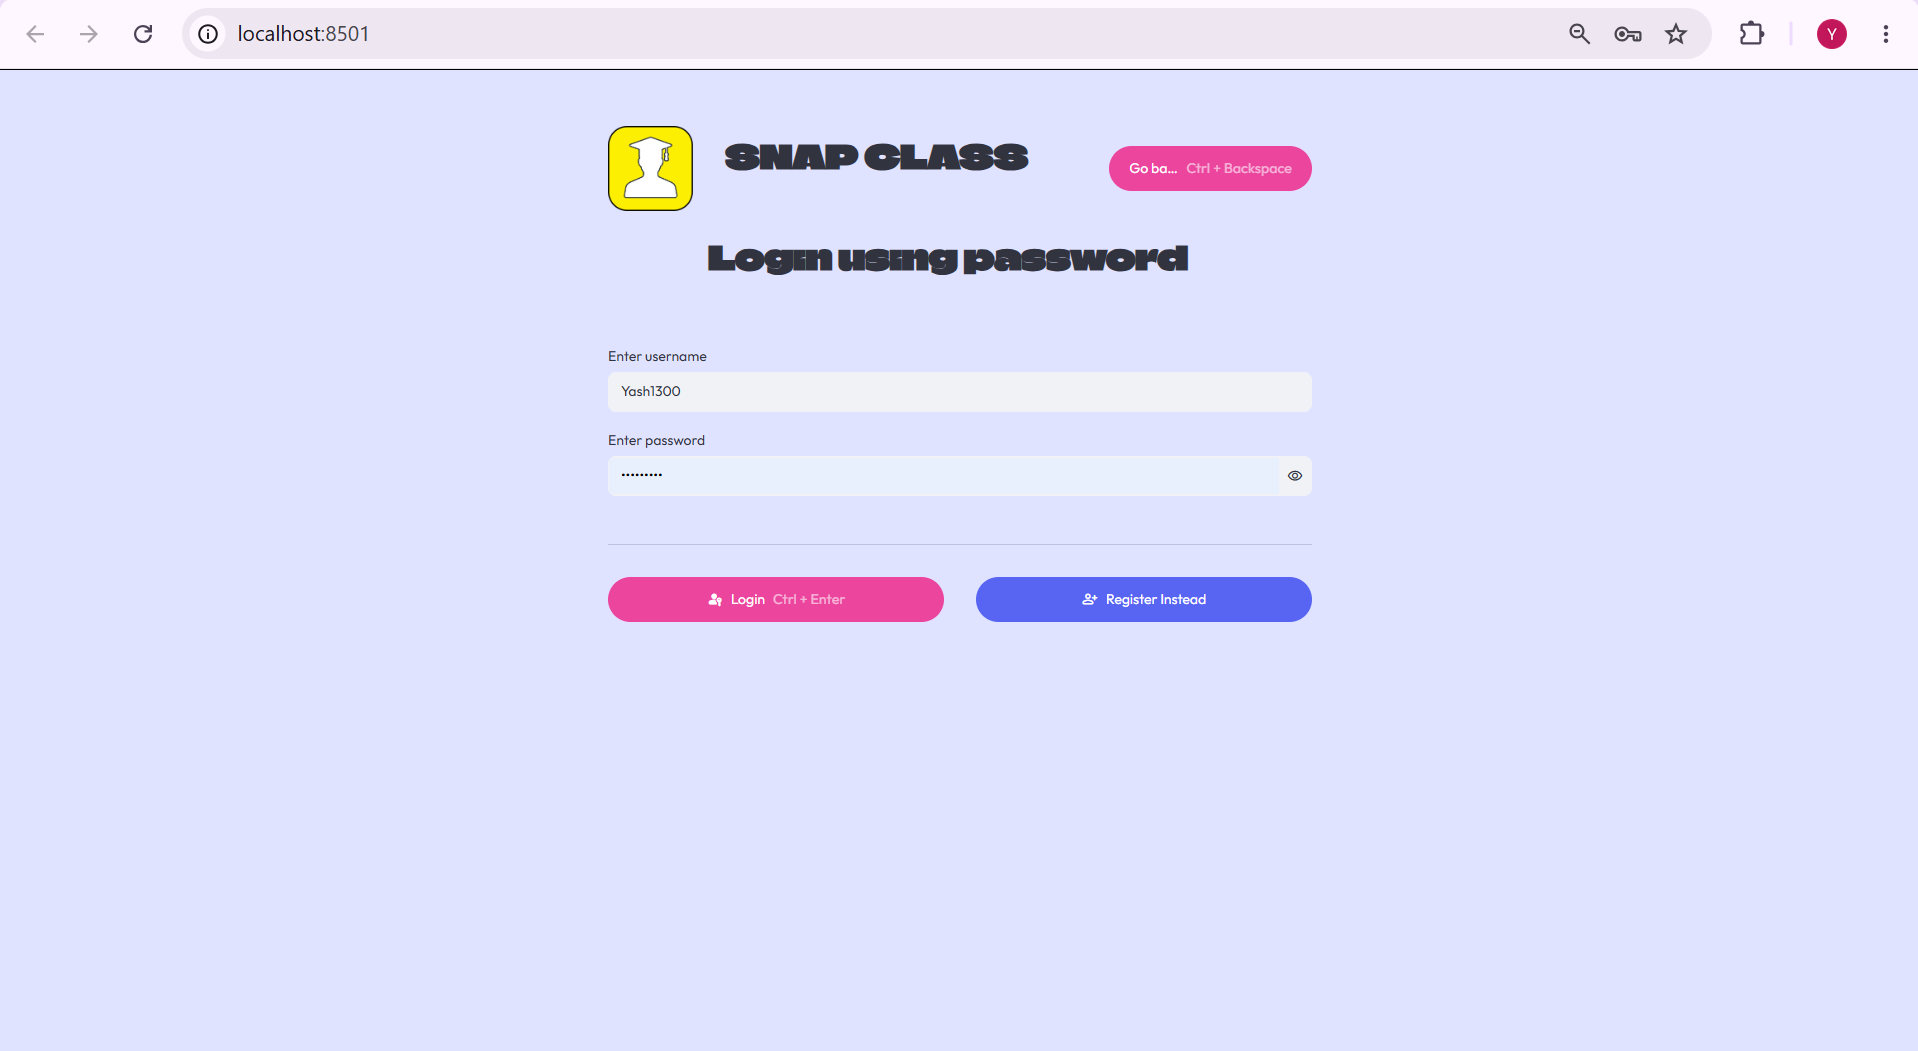
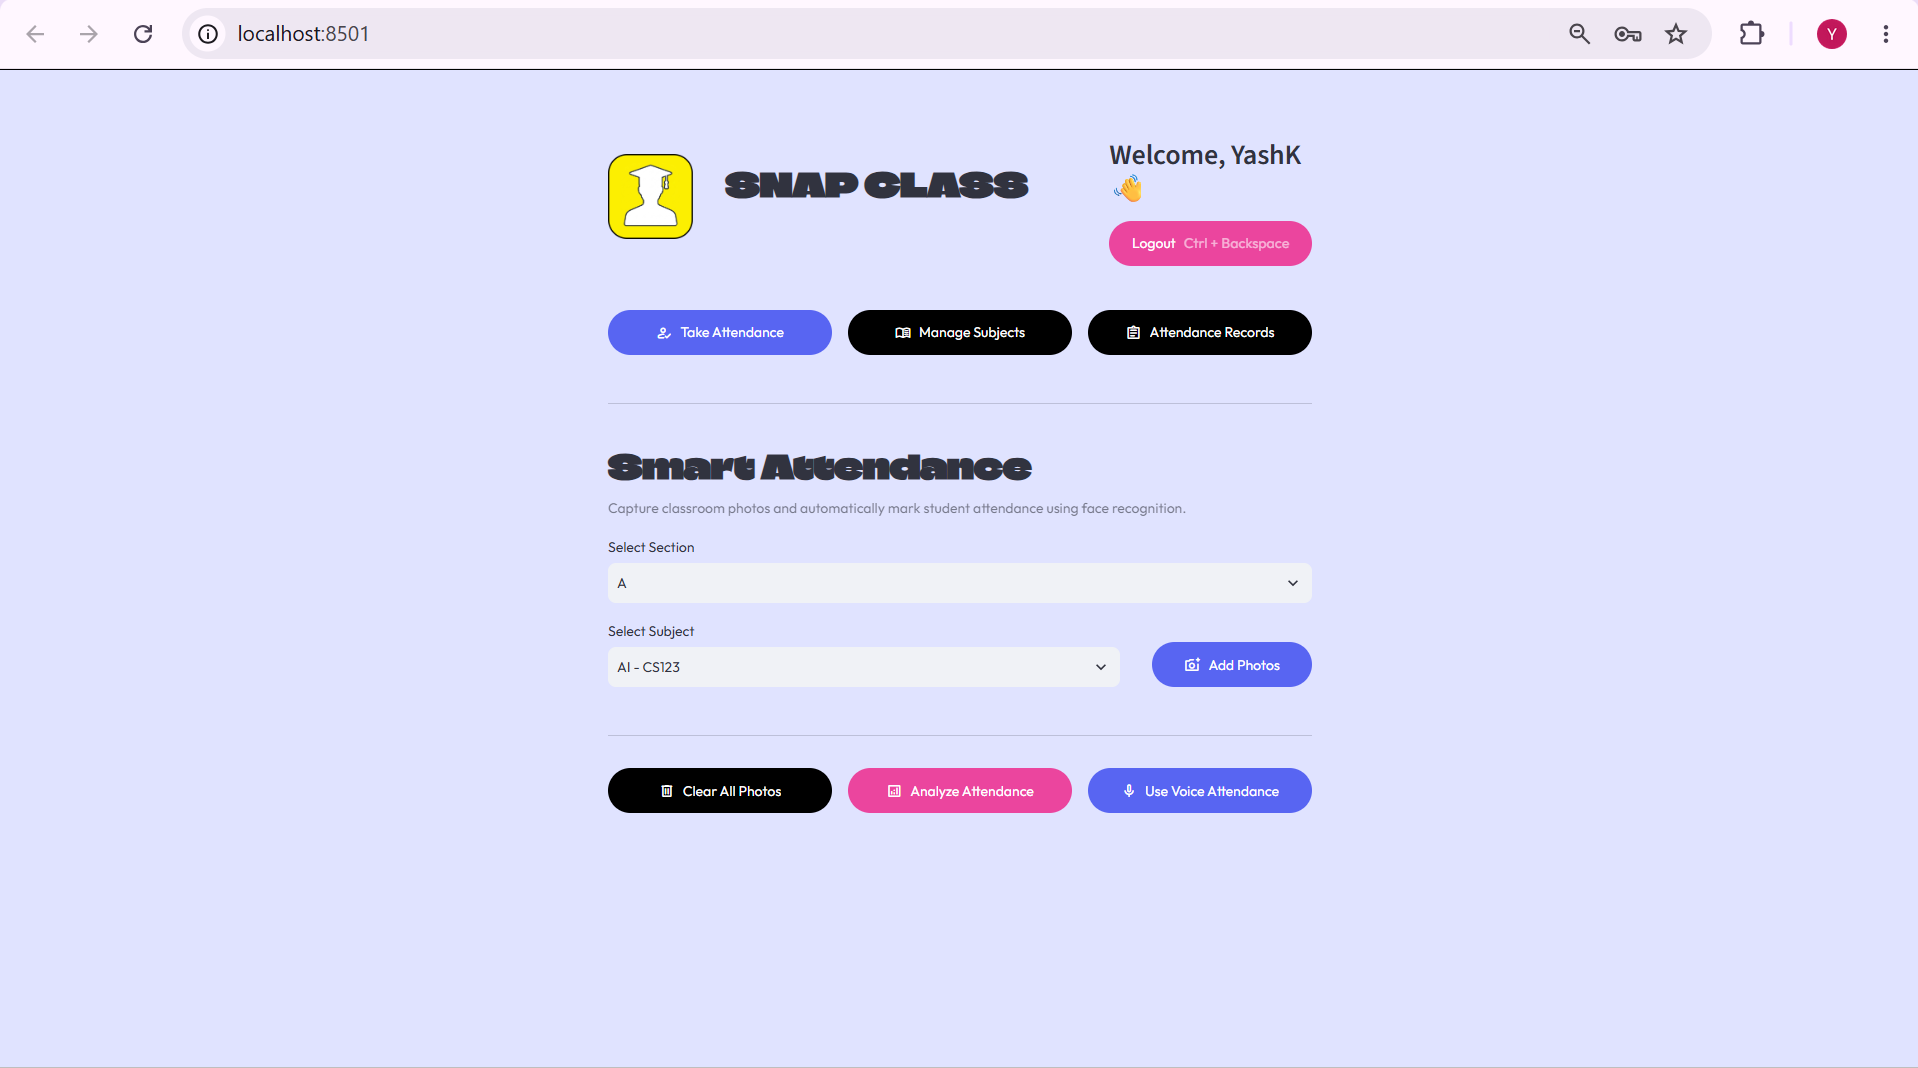
Clean README note, update teacher screenshot, remove empty file

diff --git a/README.md b/README.md
@@ -8,8 +8,6 @@ SnapClass is a face-recognition attendance application with separate **Student**
 
 ## Screenshots
 
-> Add your screenshots to a `screenshots/` folder and replace the file names below.
-
 | Student Portal | Teacher Dashboard |
 |---|---|
 | ![Student portal](screenshots/student-portal.png) | ![Teacher dashboard](screenshots/teacher-dashboard.png) |
